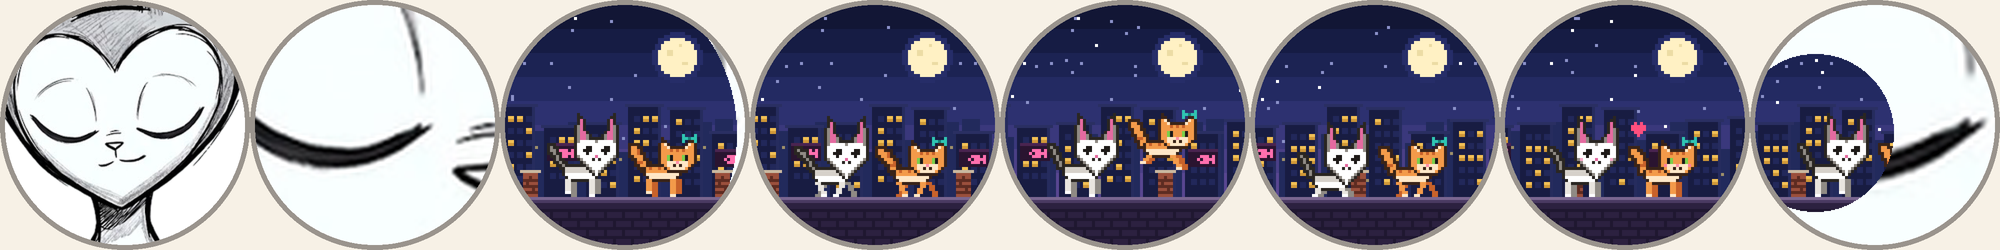
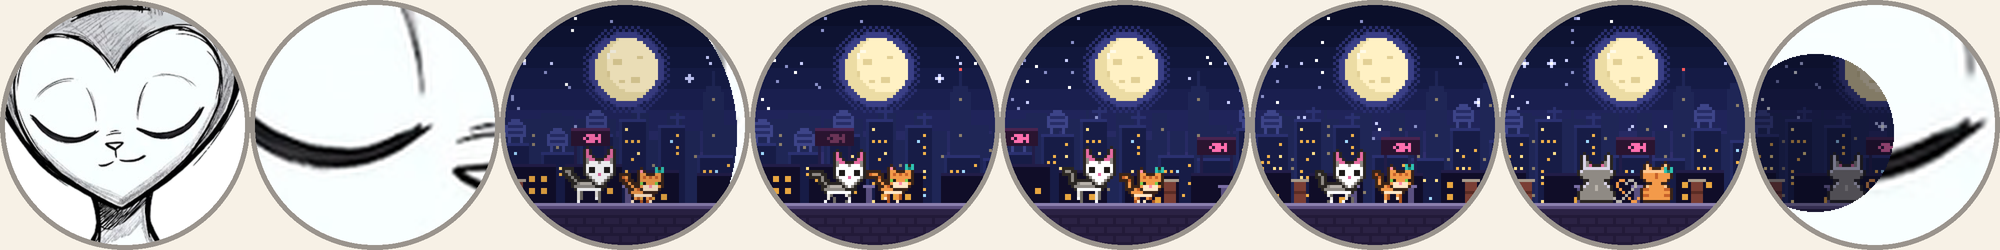
City dream: a long rooftop walk with her, then they sit and watch the moon
The camera pulls back: both cats get small sprites of their own so the
whole skyline fits. Three parallax layers (hazy far towers with blinking
aerials, middle blocks with water tanks and neon blade signs, near roofs
with a fish billboard) scroll past a fixed full moon.

The story is new: they walk the roofs for about eight seconds, ease to a
stop, glance at each other, then sit side by side seen from behind,
facing the moon. Their tails curl together into a small heart and a
shooting star crosses. The loop fades in and out of dark.

The wall jump is gone. Home and sky render pixel-identical to before.

Changed region(s): [[0.248, 0.112, 0.961, 0.84]]

diff --git a/sim/dream.js b/sim/dream.js
@@ -75,47 +75,14 @@ const BOB = { head: BOB_HEAD, side: BOB_SIDE, hdx: 5, hdy: -17,
   eye: '#1e1a18', shine: '#ffffff', lid: '#ffffff', blush: '#f7a8c8',
   legNear: '#e9e5df', legFar: '#8f8a84', paw: '#ffffff', tail: '#8f8a84', fluffy: false };
 
-// Her: a ginger tabby with a cream muzzle, short round ears, green eyes and a teal bow. Smaller than Bob.
-const GIN_HEAD = [
-  '.k.........k.',
-  '.kk.......kk.',
-  'kock.....kcok',
-  'koockkkkkcook',
-  'kooodododoook',
-  'koooooooooook',
-  'kooxyoooxyook',
-  'koouvooouvook',
-  'koqcccpcccqok',
-  '.kocckckccok.',
-  '..kocccccok..',
-  '...kkkkkkk...'];
-const GIN_SIDE = [
-  '..kkkkkkkkkk...',
-  '.kodoodoodook..',
-  '.kooooooooocck.',
-  '.kccccccccccck.',
-  '..kccccccccck..',
-  '...kkkkkkkkk...'];
-const BOW = ['b...b', 'bbBbb', 'b...b'];
-const GIN = { head: GIN_HEAD, side: GIN_SIDE, hdx: 6, hdy: -9,
-  pal: { k: '#3a2418', o: '#f39a4a', d: '#c8622a', c: '#ffe7c7', p: '#ff8fa8', q: '#f39a4a', b: '#2fc4b2', B: '#16807a' },
-  eye: '#1e1a18', iris: '#7ccf4a', lid: '#f39a4a', blush: '#ff7f9a',
-  legNear: '#f39a4a', legFar: '#c8622a', paw: '#ffe7c7', tail: '#f39a4a', stripe: '#c8622a', fluffy: true };
-
 // look: +1 right, -1 left. mood: 'open' | 'shut' | 'happy' (^ ^)
 function eyesFor(cat, look, mood, blush) {
   const p = Object.assign({}, cat.pal);
   if (blush) p.q = cat.blush;
   const E = cat.eye, L = cat.lid;
-  if (cat === BOB) {
-    if (mood === 'open') Object.assign(p, { x: look > 0 ? cat.shine : E, y: look > 0 ? E : cat.shine, a: E, b: E, f: E, c: L, d: E });
-    else if (mood === 'happy') Object.assign(p, { x: L, a: E, y: L, b: E, f: L, c: L, d: L });
-    else Object.assign(p, { x: L, a: L, y: L, b: E, f: E, c: L, d: L });
-  } else {
-    const I = cat.iris;
-    if (mood === 'open') Object.assign(p, look > 0 ? { x: I, y: E, u: I, v: E } : { x: E, y: I, u: E, v: I });
-    else Object.assign(p, { x: E, y: E, u: L, v: L });
-  }
+  if (mood === 'open') Object.assign(p, { x: look > 0 ? cat.shine : E, y: look > 0 ? E : cat.shine, a: E, b: E, f: E, c: L, d: E });
+  else if (mood === 'happy') Object.assign(p, { x: L, a: E, y: L, b: E, f: L, c: L, d: L });
+  else Object.assign(p, { x: L, a: L, y: L, b: E, f: E, c: L, d: L });
   return p;
 }
 
@@ -157,7 +124,6 @@ function walker(cat, bx, ground, pose, f, look, mood, blush, t) {
   leg(bx + 10, by + 5, legs[3][0], legs[3][1], cat.legNear, cat.paw);
   const hx = bx + cat.hdx, hyy = by + cat.hdy + hy;
   spr(cat.head, hx, hyy, eyesFor(cat, look, mood, blush));
-  if (cat === GIN) spr(BOW, hx + 8, hyy - 1, cat.pal);
   return [hx + (cat.head[0].length >> 1), hyy];       // top-centre of the head, for hearts
 }
 
@@ -166,85 +132,222 @@ const HEART_BIG = ['.rr.rr.', 'rhrrrrr', 'rrrrrrr', 'rrrrrrr', '.rrrrr.', '..rrr
 const HEART_PAL = { r: '#ff4f7e', h: '#ffd0dc' };
 function sparkle(x, y, k, col) { put(x, y - k, 1, 2 * k + 1, col); put(x - k, y, 2 * k + 1, 1, col); }
 
-// ================= 1. City night: Bob and her run the rooftops =================
-const CITY_T = 7.6;
-const SEGS = [[0, 9], [1.4, 12], [4.7, 0], [6.3, 9]];   // [from second, speed in grid px/s]: walk, run + jumps, stop, walk
-function scrollAt(T) {
-  let s = 0;
-  SEGS.forEach(([t0, v], i) => { const t1 = i + 1 < SEGS.length ? SEGS[i + 1][0] : CITY_T; if (T > t0) s += v * (Math.min(T, t1) - t0); });
-  return s;
-}
-const LOOP_PX = scrollAt(CITY_T);
-const G = 64, BOB_X = 18, GIN_X = 45, JUMP_W = 9, JUMP_H = 11;
-const WALL0 = scrollAt(2.0) + GIN_X + 10;                // she clears the wall at 2.0 s, Bob a moment later
-const FISH = ['..xxx.x', '.xexxxx', '..xxx.x'];
-const CSKY = ['#121635', '#161c44', '#1c2353', '#232a62', '#2d3170', '#3a387c', '#4a3f86', '#584690'];
+// ================= 1. City night: a long rooftop walk with her, then they sit and watch the full moon =================
+// The camera sits far back here, so both cats are small sprites of their own and the whole skyline fits.
+const BS = {   // Bob, small: tall pink ears, white heart face, grey fur, big dark eyes
+  pal: { k: '#2a2622', g: '#8f8a84', l: '#b9b3ab', w: '#ffffff', p: '#e46aa0', r: '#d9d4e6' },
+  head: [
+    '.k.......k.',
+    'kpk.....kpk',
+    'kpk.....kpk',
+    'kppk...kppk',
+    'kgppkkkppgk',
+    'kgwwwgwwwgk',
+    'kwwwwwwwwwk',
+    'kwxawwwxawk',
+    'kwbbwwwbbwk',
+    'kgwwwpwwwgk',
+    '.kgwwwwwgk.',
+    '..kgwwwgk..',
+    '...kgwgk...',
+    '....kkk....'],
+  side: [
+    '..kkkkkkkk..',
+    '.kglllllggk.',
+    'kgggggggggwk',
+    '.kwwwwwwwwk.'],
+  back: [            // sitting, seen from behind, moonlight catching his edges
+    '..k.......k..',
+    '.krk.....krk.',
+    '.krk.....krk.',
+    '.krgk...kgrk.',
+    '.krgpkkkpgrk.',
+    '.krrrrrrrrrk.',
+    'krgggggggggrk',
+    'kgggggggggggk',
+    '.kgggggggggk.',
+    '..kkgggggkk..',
+    '..krgggggrk..',
+    '.krggglgggrk.',
+    '.kgggglggggk.',
+    'kgggggggggggk',
+    'kgggggggggggk',
+    'kgggggggggggk',
+    '.kkkkkkkkkkk.'],
+  hx: 4, hy: -11, legs: [2, 3, 8, 9], legLen: 3, near: '#e9e5df', far: '#6f6a64', paw: '#ffffff', tail: '#8f8a84' };
+const GS = {   // her, small: ginger tabby, cream muzzle, short round ears, green eyes, teal bow
+  pal: { k: '#3a2418', o: '#f39a4a', d: '#c8622a', c: '#ffe7c7', p: '#ff8fa8', b: '#2fc4b2', B: '#16807a', r: '#ffc890' },
+  head: [
+    '.k.....k.',
+    'kpk...kpk',
+    'kookkkook',
+    'kodododok',
+    'koooooook',
+    'kxyoooxyk',
+    'koccpccok',
+    '.kccccck.',
+    '..kkkkk..'],
+  side: [
+    '..kkkkkk..',
+    '.kodoodok.',
+    'koooooocck',
+    '.kcccccck.'],
+  back: [
+    '..k.....k..',
+    '.krk...krk.',
+    '.krokkkork.',
+    'krrrrrrrrrk',
+    'koooodooook',
+    'koooodooook',
+    '.koooooook.',
+    '..kkoookk..',
+    '.krooooork.',
+    'kddoooooddk',
+    'koooooooook',
+    'kddoooooddk',
+    'koooooooook',
+    '.kkkkkkkkk.'],
+  hx: 3, hy: -6, legs: [2, 3, 6, 7], legLen: 2, near: '#f39a4a', far: '#b0561f', paw: '#ffe7c7', tail: '#f39a4a', stripe: '#c8622a' };
+const BOW_S = ['b.b', 'bBb'];
+const FISH = ['..xxx.x', '.xexxxx', '..xxx.x'];   // the billboard here, and the fish in the sky dream
+const DARK_EYE = '#1e1a18', IRIS = '#7ccf4a';
 
-function jumpPose(S, cx) {   // where a cat is in its jump over the nearest wall: [pose, height]
-  const k = Math.round((S + cx - WALL0) / LOOP_PX), u = (S + cx - (k * LOOP_PX + WALL0 - JUMP_W / 2)) / JUMP_W;
-  if (u > -0.22 && u <= 0) return ['crouch', 0];
-  if (u > 0 && u < 1) return [u < 0.3 ? 'up' : u < 0.7 ? 'air' : 'down', Math.round(JUMP_H * 4 * u * (1 - u))];
-  if (u >= 1 && u < 1.18) return ['land', 0];
-  return null;
+function smallEyes(cat, look, mood) {
+  const p = Object.assign({}, cat.pal);
+  if (cat === BS) Object.assign(p, mood === 'open' ? { x: DARK_EYE, a: DARK_EYE, b: DARK_EYE } : { x: p.w, a: p.w, b: DARK_EYE });
+  else Object.assign(p, mood === 'open' ? (look > 0 ? { x: IRIS, y: DARK_EYE } : { x: DARK_EYE, y: IRIS }) : { x: p.d, y: p.d });
+  return p;
 }
+function tailS(pts, cat) {   // outline pass, then a 1 px fill, striped if she has stripes
+  for (const [x, y] of pts) put(x - 1, y - 1, 3, 3, cat.pal.k);
+  pts.forEach(([x, y], i) => put(x, y, 1, 1, cat.stripe && i % 3 === 2 ? cat.stripe : cat.tail));
+}
+const STEP_S = [1, 0, -1, 0];
+function smallWalker(cat, bx, ground, f, moving, look, mood, t) {   // side-on body, head turned to you
+  const by = ground - cat.side.length - cat.legLen - (moving && f % 2 ? 1 : 0);
+  const sway = Math.sin(t * 3) * (moving ? 0.7 : 1.3), pts = [];
+  for (let i = 1; i <= 6; i++) pts.push([bx + 1 - i * 0.5 + Math.sin(t * 2.5 - i * 0.5) * i * 0.15 * sway, by + 1 - i * 0.9 + (i > 4 ? (i - 4) * 0.6 : 0)]);
+  tailS(pts, cat);
+  const top = by + cat.side.length;
+  const leg = (i, col, paw) => {   // legs 0 near back, 1 far back, 2 near front, 3 far front; diagonal pairs step together
+    const ph = (f + (i === 0 || i === 3 ? 0 : 2)) % 4, dx = moving ? STEP_S[ph] : 0, len = ground - top - (moving && ph === 3 ? 1 : 0);
+    for (let j = 0; j < len; j++) put(bx + cat.legs[i] + Math.round(dx * j / Math.max(1, len - 1)), top + j, 1, 1, j === len - 1 ? paw : col);
+  };
+  leg(1, cat.far, cat.far); leg(3, cat.far, cat.far);
+  spr(cat.side, bx, by, cat.pal);
+  leg(0, cat.near, cat.paw); leg(2, cat.near, cat.paw);
+  const hx = bx + cat.hx, hy = by + cat.hy;
+  spr(cat.head, hx, hy, smallEyes(cat, look, mood));
+  if (cat === GS) spr(BOW_S, hx + 6, hy, cat.pal);
+}
+
+const CITY_T = 16, WALK_V = 11, WALK_END = 8.4, BRAKE = 0.7, SIT_AT = 9.8;
+const scrollAt = T => T < WALK_END ? WALK_V * T : WALK_V * (WALK_END + BRAKE * (u => u - u * u / 2)(clamp01((T - WALK_END) / BRAKE)));
+const G = 66, MOON = [40, 21, 10];
+const CSKY = ['#0b0f2a', '#0e1332', '#11173b', '#151b45', '#1a1f4f', '#20245a', '#272a64', '#302f6d', '#3a3474', '#453a7a'];
+const TANK = ['..aaa..', '.aaaaa.', 'abbbbba', 'aaaaaaa', 'abbbbba', 'aaaaaaa', '.a...a.', '.a...a.'];
+// their tails meet between them and curl up into a heart: Bob's grey makes one side, hers the other
+const TAIL_B = [[36, -2], [37, -1], [38, -1], [39, -2], [40, -3], [41, -4], [42, -5], [43, -6], [43, -7], [42, -8], [41, -8], [40, -7]];
+const TAIL_G = TAIL_B.map(([x, y]) => [80 - x, y]);
+const lazy = (pts, dir) => pts.map(([x, y], i) => [pts[0][0] + dir * i * 0.45, -1 - i * 0.45]);   // the same tail, loosely raised
 
 function city(t) {
-  const T = t % CITY_T, S = Math.floor(t / CITY_T) * LOOP_PX + scrollAt(T);
-  CSKY.forEach((c, i) => put(0, i * 8, N, 8, c));
-  put(0, 64, N, 16, CSKY[7]);
-  for (let i = 0; i < 46; i++) {
-    const x = hash(i, 1) * N | 0, y = hash(i, 2) * 46 | 0, tw = Math.sin(t * 2.3 + i * 1.7);
-    if (tw > -0.4) put(x, y, 1, 1, tw > 0.85 ? '#ffffff' : '#8a90c8');
+  const T = t % CITY_T, S = scrollAt(T);
+  CSKY.forEach((c, i) => put(0, i * 7, N, 7, c));
+  for (let i = 0; i < 70; i++) {                                                          // stars, none in front of the moon
+    const x = hash(i, 1) * N | 0, y = hash(i, 2) * 46 | 0, tw = Math.sin(t * 2.1 + i * 1.7);
+    if (Math.hypot(x - MOON[0], y - MOON[1]) < 16 || tw < -0.5) continue;
+    if (i % 9 === 0 && tw > 0.6) sparkle(x, y, 1, '#c9ceff');
+    put(x, y, 1, 1, tw > 0.8 ? '#ffffff' : i % 3 ? '#8a90c8' : '#c9ceff');
   }
-  disc(57, 17, 8, '#262d68'); disc(57, 17, 6, '#fff1c4');                              // moon and its glow
-  put(54, 15, 2, 2, '#ecdca4'); put(59, 19, 2, 1, '#ecdca4'); put(58, 13, 1, 1, '#ecdca4');
-  const far = S * 0.15;                                                                   // far skyline
-  for (let c = Math.floor(far / 7) - 1; c <= Math.floor((far + N) / 7) + 1; c++) {
-    const x = c * 7 - far, top = 38 + (hash(c, 3) * 12 | 0);
-    put(x, top, 6, 30, '#222a5c');
-    if (hash(c, 4) > 0.7) put(x + 2, top - 3, 1, 3, '#222a5c');                          // antenna
-    for (let wy = top + 2; wy < 62; wy += 3) for (let wx = 1; wx < 5; wx += 2) if (hash(c * 31 + wx, wy) > 0.82) put(x + wx, wy, 1, 1, '#9d8f6a');
+  if (T > 12.6 && T < 13.1) {                                                             // one shooting star while they sit
+    const u = (T - 12.6) / 0.5;
+    for (let k = 0; k < 6; k++) { const v = u - k * 0.04; if (v > 0) put(70 - v * 18, 5 + v * 9, 1, 1, k ? '#8a90c8' : '#ffffff'); }
   }
-  const mid = S * 0.45;                                                                   // nearer houses with warm windows
-  for (let c = Math.floor(mid / 14) - 1; c <= Math.floor((mid + N) / 14) + 1; c++) {
-    const x = c * 14 - mid, w = 11 + (hash(c, 5) * 2 | 0), top = 34 + (hash(c, 6) * 10 | 0);
-    put(x, top, w, 40, '#181c42'); put(x + w - 1, top, 1, 40, '#262c5e'); put(x - 1, top - 1, w + 2, 1, '#2a2f62');
-    for (let wy = top + 3; wy < 60; wy += 4) for (let wx = 2; wx < w - 2; wx += 3) {
-      const lit = hash(c * 17 + wx, wy) > 0.68 !== (hash(c, wx * wy) > 0.97 && Math.sin(t * 0.8 + c) > 0);
-      put(x + wx, wy, 2, 2, lit ? '#f2c055' : '#22285a');
-      if (lit) put(x + wx, wy + 1, 2, 1, '#d09838');
+  const [mx, my, mr] = MOON;                                                              // big full moon, soft glow
+  for (let y = -mr - 5; y <= mr + 5; y++) for (let x = -mr - 5; x <= mr + 5; x++) {
+    const d = Math.hypot(x, y);
+    if (d < mr + 2.5 || (d < mr + 5 && (x + y) % 2 === 0)) put(mx + x, my + y, 1, 1, d < mr + 2.5 ? '#3a3f86' : '#2a2f6e');
+  }
+  disc(mx, my, mr, '#fff1c4');
+  for (let y = -mr; y <= mr; y++) for (let x = -mr; x <= mr; x++) {                      // shaded right limb
+    const d = x * x + y * y;
+    if (d <= mr * mr + mr && Math.hypot(x - 3, y + 2) > mr - 0.5) put(mx + x, my + y, 1, 1, '#ecdca4');
+  }
+  [[-4, -3, 3, 2], [2, 3, 3, 2], [-2, 4, 2, 1], [4, -4, 2, 1], [-6, 1, 1, 2]].forEach(([x, y, w, h]) => put(mx + x, my + y, w, h, '#e2d096'));
+  put(mx - 5, my - 6, 2, 1, '#fffbe8'); put(mx - 6, my - 5, 1, 2, '#fffbe8');
+
+  const far = S * 0.1;                                                                    // far skyline, hazy
+  for (let c = Math.floor(far / 6) - 1; c <= Math.floor((far + N) / 6) + 1; c++) {
+    const x = c * 6 - far, w = 5 + (hash(c, 3) * 3 | 0), tall = hash(c, 13) > 0.7 && (c * 6 < 18 || c * 6 > 64), top = (tall ? 27 : 36) + (hash(c, 4) * 11 | 0);
+    put(x, top, w, G - top, '#1f2656');
+    if (tall) { put(x + 1, top - 2, w - 2, 2, '#1f2656'); put(x + (w >> 1), top - 7, 1, 5, '#1f2656'); if (Math.sin(t * 3 + c) > 0.2) put(x + (w >> 1), top - 8, 1, 1, '#ff5a5a'); }
+    else if (hash(c, 5) > 0.72) put(x + 2, top - 3, 1, 3, '#1f2656');
+    for (let wy = top + 2; wy < G; wy += 3) for (let wx = 1; wx < w - 1; wx += 2) if (hash(c * 13 + wx, wy) > 0.84) put(x + wx, wy, 1, 1, '#8c7f6a');
+  }
+  const mid = S * 0.3;                                                                    // middle blocks: water tanks, many small windows, neon
+  for (let c = Math.floor(mid / 13) - 1; c <= Math.floor((mid + N) / 13) + 1; c++) {
+    const x = c * 13 - mid, w = 9 + (hash(c, 6) * 4 | 0), top = 39 + (hash(c, 7) * 14 | 0);
+    put(x, top, w, G - top, '#171c46'); put(x, top - 1, w, 1, '#2b3170'); put(x, top, 1, G - top, '#232a60');
+    for (let wy = top + 2; wy < G; wy += 2) for (let wx = 2; wx < w - 1; wx += 2) {
+      const h = hash(c * 17 + wx, wy);
+      if (h > 0.7) put(x + wx, wy, 1, 1, h > 0.96 ? '#9fd8ff' : h > 0.85 ? '#ffdf8a' : '#f2b24a');
     }
-    if (((c % 4) + 4) % 4 === 1) {                                                        // a fish-shop sign, neon, flickering
-      put(x + 1, top + 5, 10, 6, '#2a1430'); put(x + 1, top + 5, 10, 1, '#4a2450');
-      const on = Math.sin(t * 7 + c) > -0.7 || Math.sin(t * 1.3) > 0.5;
-      spr(FISH, x + 3, top + 7, { x: on ? '#ff6fae' : '#6a3456', e: '#2a1430' });
+    const roof = hash(c, 8);
+    if (roof > 0.55) spr(TANK, x + ((w - 7) >> 1), top - 9, { a: '#3d4488', b: '#272d66' });
+    else if (roof > 0.3) { put(x + w - 3, top - 5, 1, 5, '#2b3170'); put(x + w - 5, top - 4, 5, 1, '#2b3170'); }
+    if (hash(c, 9) > 0.62) {                                                              // vertical neon blade sign, flickers
+      const on = Math.sin(t * 6 + c * 2) > -0.8 || Math.sin(t * 1.1 + c) > 0.6, col = hash(c, 10) > 0.5 ? '#ff6fae' : '#4fe3d0';
+      put(x - 1, top + 3, 3, 9, '#2a1430');
+      for (let k = 0; k < 4; k++) put(x, top + 4 + k * 2, 1, 1, on ? col : '#4a2a4a');
     }
   }
-  put(0, G, N, 1, '#7a6690'); put(0, G + 1, N, 1, '#4a3a62'); put(0, G + 2, N, 14, '#2c2140');   // our rooftop
+  const near = S * 0.55;                                                                  // near rooftops, a fish billboard
+  for (let c = Math.floor(near / 22) - 1; c <= Math.floor((near + N) / 22) + 1; c++) {
+    const x = c * 22 - near, w = 15 + (hash(c, 11) * 5 | 0), top = 54 + (hash(c, 12) * 5 | 0);
+    put(x, top, w, G - top, '#100d28'); put(x, top - 1, w, 1, '#221d48');
+    for (let wy = top + 3; wy < G - 1; wy += 4) for (let wx = 2; wx < w - 2; wx += 4) if (hash(c * 7 + wx, wy) > 0.6) put(x + wx, wy, 2, 2, '#e8a640');
+    if (((c % 3) + 3) % 3 === 1) {
+      const on = Math.sin(t * 5 + c) > -0.75;
+      put(x + 3, top - 9, 1, 8, '#221d48'); put(x + 13, top - 9, 1, 8, '#221d48');
+      put(x + 2, top - 13, 13, 6, '#2a1430'); put(x + 2, top - 13, 13, 1, '#4a2450');
+      spr(FISH, x + 5, top - 11, { x: on ? '#ff6fae' : '#6a3456', e: '#2a1430' });
+    }
+  }
+  put(0, G, N, 1, '#8b7fae'); put(0, G + 1, N, 1, '#5a4c7c'); put(0, G + 2, N, N - G - 2, '#2b2244');   // our rooftop ledge
   for (let y = G + 4; y < N; y += 3) {
-    put(0, y, N, 1, '#1f1730');
-    for (let x = -((S + (y % 2) * 3) % 6); x < N; x += 6) put(x, y + 1, 1, 2, '#1f1730');
+    put(0, y, N, 1, '#221a38');
+    for (let x = -((S + (y % 2) * 3) % 6); x < N; x += 6) put(x, y + 1, 1, 2, '#221a38');
   }
-  for (let k = Math.floor(S / LOOP_PX) - 1; k <= Math.floor(S / LOOP_PX) + 2; k++) {      // the wall they jump
-    const wx = k * LOOP_PX + WALL0 - S - 2;
-    put(wx, G - 8, 5, 8, '#9a4f3c');
-    for (let y = G - 6; y < G; y += 2) put(wx, y, 5, 1, '#5e2c22');
-    put(wx + 2, G - 7, 1, 1, '#5e2c22'); put(wx + 1, G - 5, 1, 1, '#5e2c22'); put(wx + 3, G - 3, 1, 1, '#5e2c22');
-    put(wx - 1, G - 9, 7, 1, '#c9b8a0');
+  for (let c = Math.floor(S / 19) - 1; c <= Math.floor((S + N) / 19) + 1; c++) {          // things on our roof, behind the cats
+    const x = c * 19 - S + 6, k = hash(c, 30);
+    if (k < 0.3) { put(x, G - 5, 2, 5, '#5a5080'); put(x - 1, G - 6, 4, 1, '#7a6ea4'); }
+    else if (k < 0.5) { put(x, G - 7, 4, 7, '#7a3e34'); put(x - 1, G - 8, 6, 1, '#a89a8a'); put(x, G - 4, 4, 1, '#5a2c24'); }
+    else if (k < 0.65) { put(x, G - 4, 7, 4, '#4c4468'); put(x, G - 4, 7, 1, '#6c6490'); put(x + 1, G - 3, 2, 2, '#2e2844'); }
   }
-  const pause = T >= 4.7 && T < 6.3, f = Math.floor(S / 2.2) % 4;
-  const cats = [[BOB, BOB_X], [GIN, GIN_X]], heads = [];
-  for (const [cat, x] of cats) {
-    const j = pause ? null : jumpPose(S, x + 10);
-    const look = pause && cat === GIN ? -1 : 1;
-    const mood = pause && T > 5.6 ? 'happy' : 'open';
-    heads.push(j ? walker(cat, x, G - j[1], j[0], f, look, mood, false, t)
-                 : walker(cat, x, G, pause ? 'stand' : 'walk', f, look, mood, pause && T > 5.0, t));
+
+  const sit = T >= SIT_AT, f = Math.floor(S / 2.4) % 4, moving = T < WALK_END + BRAKE;
+  if (!sit) {
+    const glance = !moving;                                                               // stopped: a look at each other
+    const blinkB = (T % 3.3) < 0.12, blinkG = ((T + 1.4) % 2.9) < 0.12;
+    smallWalker(BS, 22, G, f, moving, 1, blinkB ? 'shut' : 'open', t);
+    smallWalker(GS, 41, G, (f + 1) % 4, moving, glance ? -1 : 1, blinkG ? 'shut' : 'open', t);
+  } else {
+    const dy = T < SIT_AT + 0.1 ? -2 : T < SIT_AT + 0.2 ? -1 : 0;                         // settle down onto the ledge
+    spr(BS.back, 24, G - BS.back.length + dy, BS.pal);
+    spr(GS.back, 45, G - GS.back.length + dy, GS.pal);
+    spr(BOW_S, 53, G - GS.back.length + dy + 2, GS.pal);                                  // on her right ear
+    const k = ease(clamp01((T - SIT_AT - 0.6) / 1.8)), wob = Math.sin(t * 2.2);
+    const curl = (to, dir) => { const from = lazy(to, dir); return to.map(([x, y], i) => {
+      const u = clamp01(k * 1.6 - (i / to.length) * 0.6);
+      return [Math.round(from[i][0] + (x - from[i][0]) * u + (i > 6 ? dir * wob * (1 - k) : 0)), Math.round(G + from[i][1] + (y - from[i][1]) * u)];
+    }); };
+    const line = (pts, col) => pts.forEach(([x, y]) => put(x, y, 1, 1, col));   // no outline: at this size it swallows the shape
+    line(curl(TAIL_G, -1), GS.tail);
+    line(curl(TAIL_B, 1), BS.pal.l);
   }
-  if (pause && T > 5.0) {                                                                  // a tiny heart between them
-    const k = (T - 5.0) / 1.3, hx = (heads[0][0] + heads[1][0]) / 2 - 2;
-    if (k < 1 && (k < 0.8 || Math.floor(T * 12) % 2)) spr(HEART, hx, heads[1][1] - 4 - k * 6, HEART_PAL);
-  }
+  const fade = Math.min(1, T / 0.35, (CITY_T - T) / 0.6);                                  // soft loop: dark in, dark out
+  if (fade < 1) for (let i = 0; i < buf.length; i += 4) { buf[i] = 8 + (buf[i] - 8) * fade; buf[i + 1] = 10 + (buf[i + 1] - 10) * fade; buf[i + 2] = 30 + (buf[i + 2] - 30) * fade; }
 }
 
 // ================= 2. Home: Bob eats from his bowl in a warm room, it magically refills =================
@@ -362,8 +465,8 @@ const SCENES = { city, home, sky };
 const DREAM = {
   N, SCENES: Object.keys(SCENES),
   PERIOD: { city: CITY_T, home: HOME_T, sky: SKY_T },
-  KEY: { city: 5.8, home: 6.0, sky: 4.2 },   // a still that tells the story, for reduced motion
-  TITLE: { city: 'roaming the city at night with a friend', home: 'a full food bowl at home', sky: 'paddling through the stars with the fish' },
+  KEY: { city: 13.0, home: 6.0, sky: 4.2 },   // a still that tells the story, for reduced motion
+  TITLE: { city: 'a rooftop walk with a friend, then the full moon', home: 'a full food bowl at home', sky: 'paddling through the stars with the fish' },
   frame(scene, t) { SCENES[scene](t); return buf; }
 };
 if (typeof module !== 'undefined') module.exports = DREAM; else window.DREAM = DREAM;
